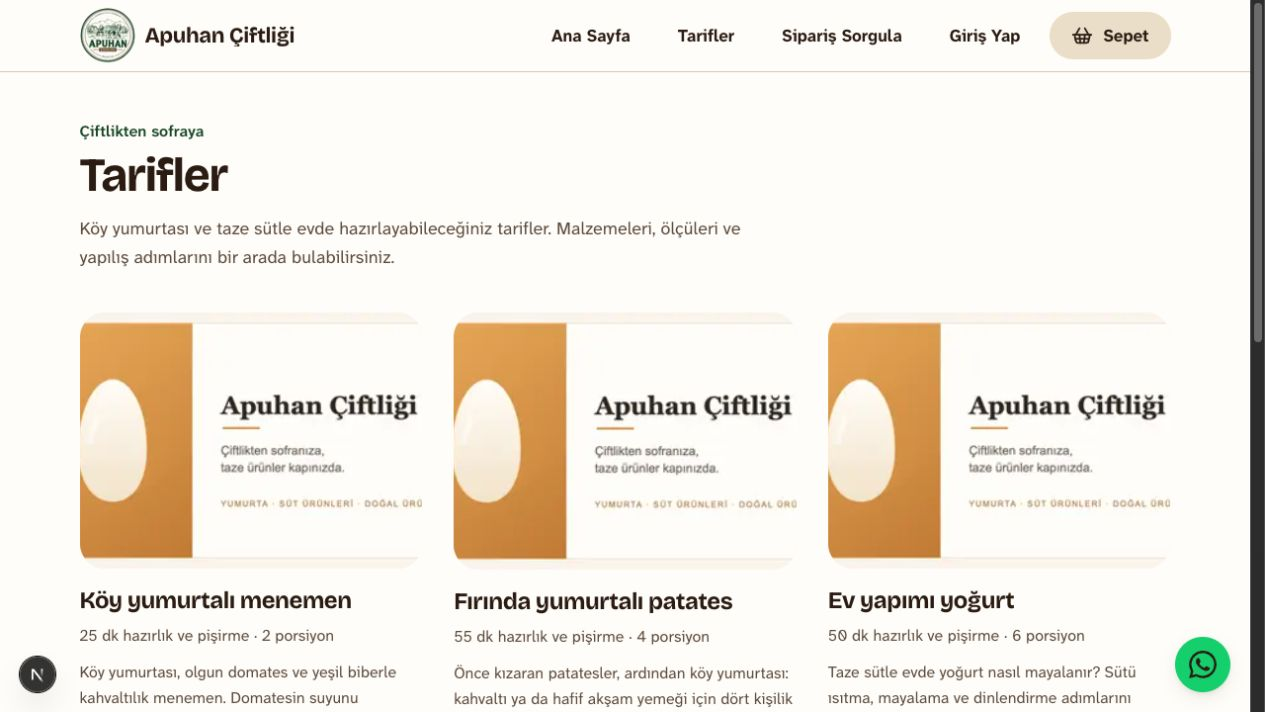
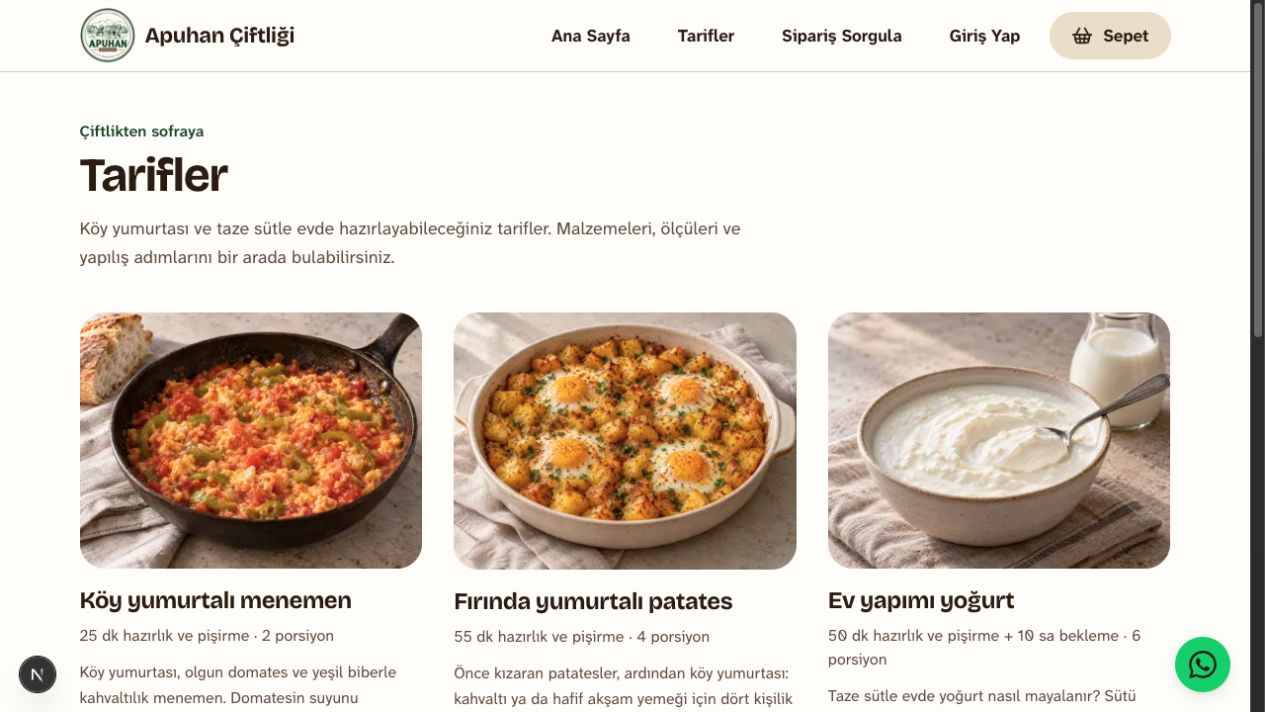
feat(content): tariflere yapay zekâyla üretilen yemek görselleri ekle

Changed region(s): [[0.0617, 0.4326, 0.9249, 0.8034], [0.6474, 0.8652, 0.8941, 0.9888], [0.9866, 0.4635, 1.0, 0.4944]]

diff --git a/features/content/domain/recipes.ts b/features/content/domain/recipes.ts
@@ -1,8 +1,7 @@
 import { recipeCollectionSchema } from "./recipe.schema";
 import type { Recipe } from "./recipe";
 
-// TODO: Her tarif için bitmiş yemeğin özgün fotoğrafını public/tarifler/'e
-// ekle; image ve imageAlt alanlarını güncelle. Şimdilik marka görseli kullanılır.
+// Tarif görselleri yapay zekâyla üretildi; üretim notları docs/tarif-gorselleri.md'de.
 export const RECIPES: readonly Recipe[] = recipeCollectionSchema.parse([
   {
     slug: "koy-yumurtali-menemen",
@@ -10,9 +9,9 @@ export const RECIPES: readonly Recipe[] = recipeCollectionSchema.parse([
     description:
       "Köy yumurtası, olgun domates ve yeşil biberle kahvaltılık menemen. Domatesin suyunu dengede tutan, iki kişilik kolay bir tava tarifi.",
     publishedAt: "2026-10-15",
-    image: "/tarifler/tarif-placeholder.png",
+    image: "/tarifler/koy-yumurtali-menemen.webp",
     imageAlt:
-      "Apuhan Çiftliği marka görseli; menemen fotoğrafı yakında eklenecek",
+      "Demir tavada domates ve yeşil biberle hazırlanmış köy yumurtalı menemen",
     prepMinutes: 10,
     cookMinutes: 15,
     restMinutes: 0,
@@ -40,9 +39,9 @@ export const RECIPES: readonly Recipe[] = recipeCollectionSchema.parse([
     description:
       "Önce kızaran patatesler, ardından köy yumurtası: kahvaltı ya da hafif akşam yemeği için dört kişilik fırında yumurtalı patates tarifi.",
     publishedAt: "2026-10-15",
-    image: "/tarifler/tarif-placeholder.png",
+    image: "/tarifler/firinda-yumurtali-patates.webp",
     imageAlt:
-      "Apuhan Çiftliği marka görseli; yumurtalı patates fotoğrafı yakında eklenecek",
+      "Fırın kabında kızarmış patatesler arasında dört yumurta ve maydanoz",
     prepMinutes: 15,
     cookMinutes: 40,
     restMinutes: 0,
@@ -72,9 +71,9 @@ export const RECIPES: readonly Recipe[] = recipeCollectionSchema.parse([
     description:
       "Taze sütle evde yoğurt nasıl mayalanır? Sütü ısıtma, mayalama ve dinlendirme adımlarını anlatan, bir litre sütle hazırlanan sade yoğurt tarifi.",
     publishedAt: "2026-10-15",
-    image: "/tarifler/tarif-placeholder.png",
+    image: "/tarifler/ev-yapimi-yogurt.webp",
     imageAlt:
-      "Apuhan Çiftliği marka görseli; ev yapımı yoğurt fotoğrafı yakında eklenecek",
+      "Seramik kasede kaşıkla alınmış sade ev yoğurdu ve yanında süt sürahisi",
     prepMinutes: 30,
     cookMinutes: 20,
     // En az 4 saat mayalanma + en az 6 saat buzdolabında dinlenme.

diff --git a/features/content/ui/recipe-details.tsx b/features/content/ui/recipe-details.tsx
@@ -96,11 +96,6 @@ export function RecipeDetails({
                 className="object-cover"
               />
             </div>
-            {recipe.image === "/tarifler/tarif-placeholder.png" ? (
-              <figcaption className="mt-2 text-base text-muted-foreground">
-                Tarif fotoğrafı yakında eklenecek.
-              </figcaption>
-            ) : null}
           </figure>
         </header>
         <div className="mt-12 grid gap-10 md:grid-cols-[1fr_2fr] lg:gap-16">

diff --git a/features/content/ui/recipe-index.tsx b/features/content/ui/recipe-index.tsx
@@ -25,7 +25,7 @@ export function RecipeIndex({ recipes }: { recipes: readonly Recipe[] }) {
                   src={recipe.image}
                   alt={recipe.imageAlt}
                   fill
-                  loading={index === 0 ? "eager" : "lazy"}
+                  loading={index < 3 ? "eager" : "lazy"}
                   sizes="(max-width: 639px) 100vw, (max-width: 1023px) 50vw, 360px"
                   className="object-cover"
                 />

diff --git a/docs/tarif-gorselleri.md b/docs/tarif-gorselleri.md
@@ -1,0 +1,51 @@
+# Tarif görsellerinin üretim kaydı
+
+2026-10-15 tarihinde yerleşik image_gen aracıyla, her tarif için ayrı bir çağrıda üretildi. CLI/API fallback kullanılmadı. Üçü de fotoğraf gerçekçiliğinde yapay zekâ görselidir; gerçek çiftlik çekimi değildir.
+
+Teslim edilen görseller WebP biçiminde `public/tarifler/` altındadır. Dönüşüm yalnızca web için boyut ve dosya sıkıştırması uygular; kompozisyonu değiştirmez.
+
+## koy-yumurtali-menemen
+
+Dosya: `public/tarifler/koy-yumurtali-menemen.webp`
+
+Son üretim prompt'u:
+
+```text
+Use case: photorealistic-natural.
+Asset type: finished-dish photograph for a Turkish farm storefront recipe index and recipe detail page.
+Style/medium: believable editorial food photography, natural edible textures, modest home cooking, warm soft window daylight from the left, matte pale stone tabletop with a subtle oatmeal linen napkin, gentle shadows, restrained earthy colors. Landscape 4:3 framing. One finished dish dominates the central 75 percent, with safe margins for responsive crops. Three-quarter view from about 45 degrees, food in clear focus, gently soft background. No people, no hands, no text, no lettering, no logos, no watermark, no collage, no packaging, no excessive props. A full-bleed photo only, not a webpage or poster.
+Primary request: a freshly cooked Turkish köy yumurtalı menemen, two-person serving, in a small well-used dark iron frying pan.
+Subject: three eggs gently scrambled and fully cooked through into a juicy mixture of finely grated ripe red tomatoes and sliced green peppers cooked in olive oil. The mixture has soft small yellow egg curds amid red tomato and green pepper pieces, moist but not watery. Lightly rustic and naturally imperfect. A small piece of crusty bread can sit at the edge of the composition.
+Constraints: authentic scrambled menemen, no intact sunny-side eggs, no runny yolks, no cheese, no meat, no onion, no parsley garnish. Appetizing, realistic food, no oversized ingredients or artificial shine.
+```
+
+## firinda-yumurtali-patates
+
+Dosya: `public/tarifler/firinda-yumurtali-patates.webp`
+
+Son üretim prompt'u:
+
+```text
+Use case: photorealistic-natural.
+Asset type: finished-dish photograph for a Turkish farm storefront recipe index and recipe detail page.
+Style/medium: believable editorial food photography, natural edible textures, modest home cooking, warm soft window daylight from the left, matte pale stone tabletop with a subtle oatmeal linen napkin, gentle shadows, restrained earthy colors. Landscape 4:3 framing. One finished dish dominates the central 75 percent, with safe margins for responsive crops. Three-quarter view from about 45 degrees, food in clear focus, gently soft background. No people, no hands, no text, no lettering, no logos, no watermark, no collage, no packaging, no excessive props. A full-bleed photo only, not a webpage or poster.
+Primary request: Turkish fırında yumurtalı patates, four-person serving in a shallow off-white ceramic baking dish.
+Subject: golden roasted potato cubes about 2 cm across, gently browned edges, paprika and dried thyme, with exactly four whole baked eggs nestled in separate wells between potatoes. Egg whites fully set and opaque and yolks set, not runny. A small scattering of finely chopped fresh parsley as in the recipe.
+Constraints: potatoes and eggs dominate, believable proportions. Exactly four eggs, no extra eggs, no cheese, no meat, no tomatoes, no peppers. Show the entire baking dish within the frame with a modest rim and natural home-cooked texture.
+```
+
+## ev-yapimi-yogurt
+
+Dosya: `public/tarifler/ev-yapimi-yogurt.webp`
+
+Son üretim prompt'u:
+
+```text
+Use case: photorealistic-natural.
+Asset type: finished-dish photograph for a Turkish farm storefront recipe index and recipe detail page.
+Style/medium: believable editorial food photography, natural edible textures, modest home cooking, warm soft window daylight from the left, matte pale stone tabletop with a subtle oatmeal linen napkin, gentle shadows, restrained earthy colors. Landscape 4:3 framing. One finished dish dominates the central 75 percent, with safe margins for responsive crops. Three-quarter view from about 45 degrees, food in clear focus, gently soft background. No people, no hands, no text, no lettering, no logos, no watermark, no collage, no packaging, no excessive props. A full-bleed photo only, not a webpage or poster.
+Primary request: plain homemade Turkish yogurt made with fresh milk.
+Subject: one simple handmade off-white ceramic bowl filled with thick plain ivory yogurt. A spoon gently resting in the bowl reveals the naturally set creamy texture with a soft scoop ridge, not whipped cream or ice cream. A small unbranded glass milk carafe in the soft background indicates fresh milk.
+Constraints: plain unsweetened yogurt, no fruit, no berries, no honey, no granola, no mint, no other garnish. Natural subtle texture and slight sheen, not overly perfect swirls. Bowl is the clear focal point, the milk carafe stays secondary.
+```
+

diff --git a/docs/tarifler.md b/docs/tarifler.md
@@ -24,10 +24,12 @@ elle bir şey yapılmayan süredir. Google'a giden toplam süreye eklenir, sayfa
 
 ## Fotoğraflar
 
-TODO: Üç tarifin de bitmiş yemek fotoğrafını çekip
-`public/tarifler/tarif-placeholder.png` yerine ayrı görseller kullanın.
-Geçici görsel repodaki Apuhan Çiftliği marka görselinin kopyasıdır; tarif
-fotoğrafı gibi sunulmaz. Fotoğraf eklenince `imageAlt` değerini de değiştirin.
+Üç tarifin her biri `public/tarifler/` altında ayrı bir WebP görseli kullanır.
+Bu görseller yapay zekâyla üretildi; üretim yöntemi ve kullanılan prompt'lar
+`docs/tarif-gorselleri.md` dosyasında kayıtlıdır. Gerçek çiftlik çekimi değildir.
+İleride kendi yemek fotoğraflarınızla değiştirebilirsiniz; görseli değiştirirken
+`imageAlt` değerini de güncelleyin. Aynı görsel indeks, detay, OG/Twitter ve
+Recipe JSON-LD çıktısında kullanılır.
 
 ## Kontrol
 
